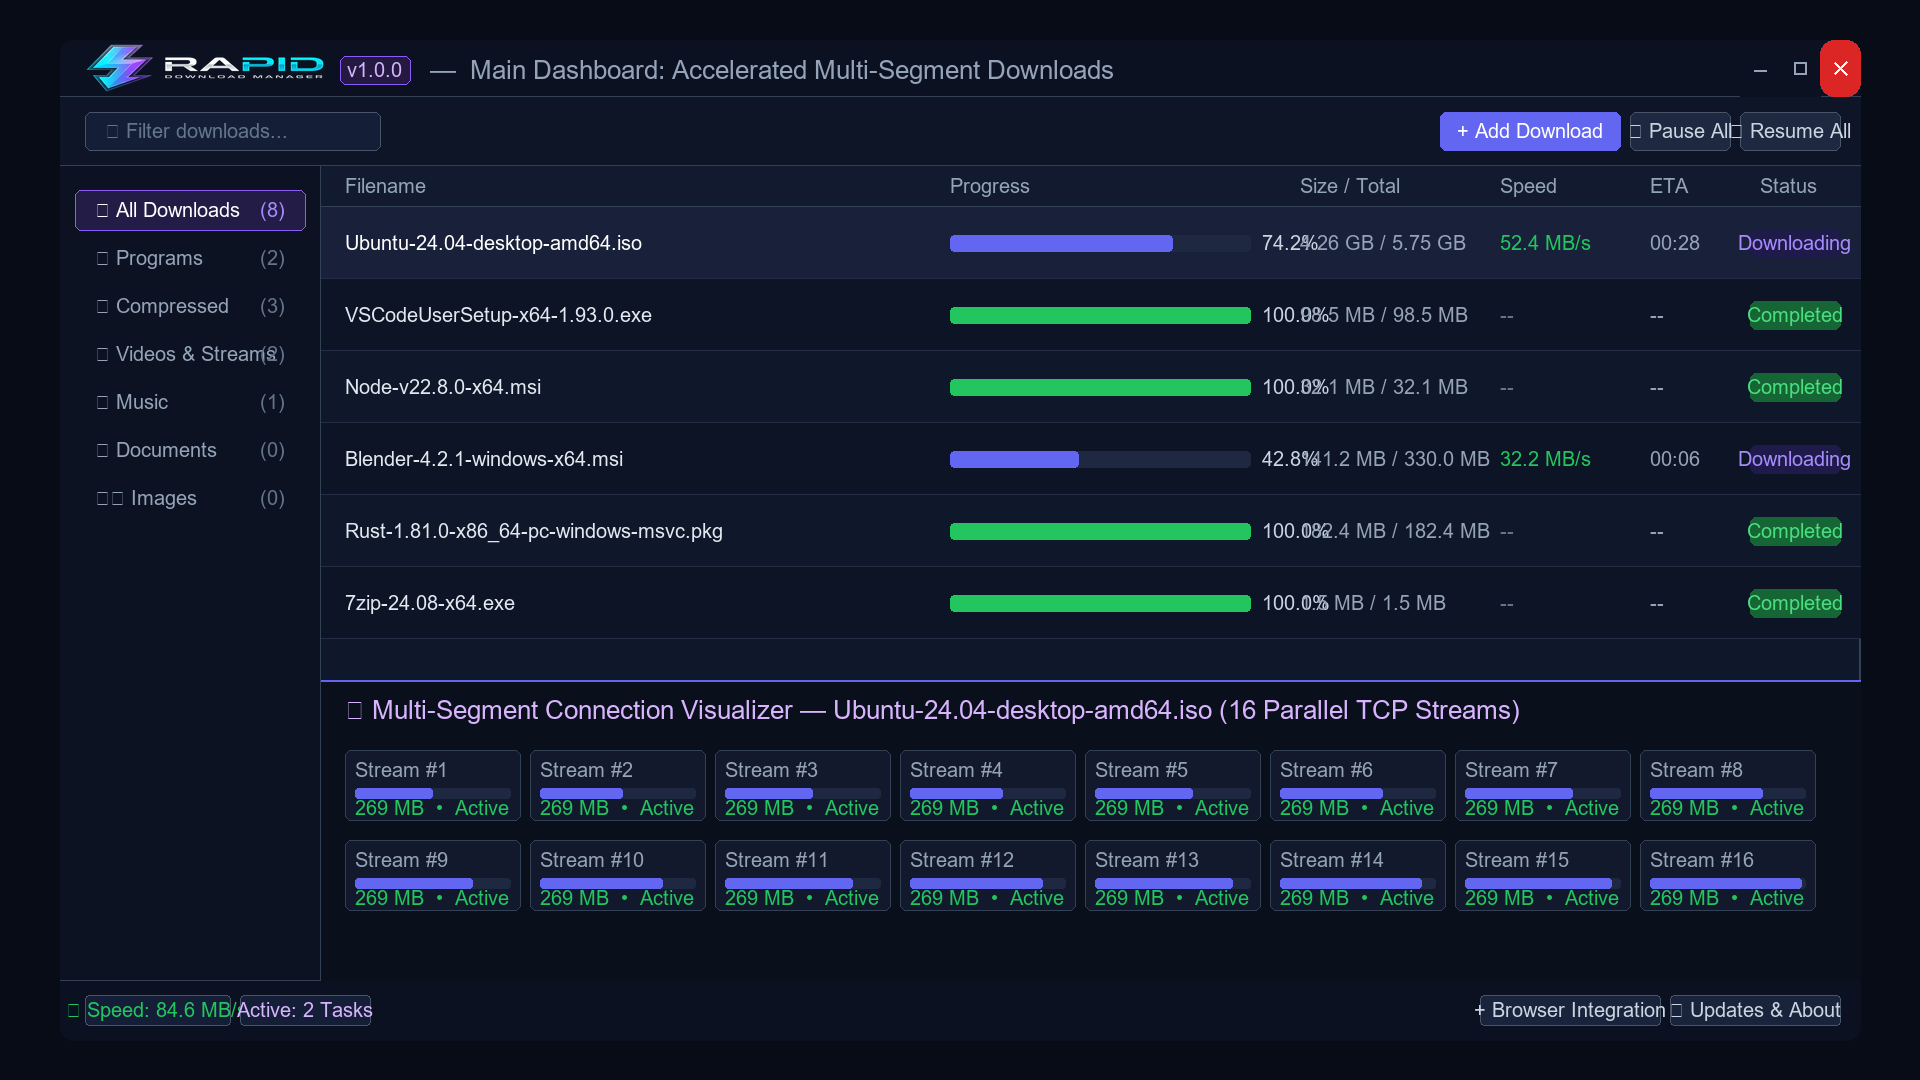
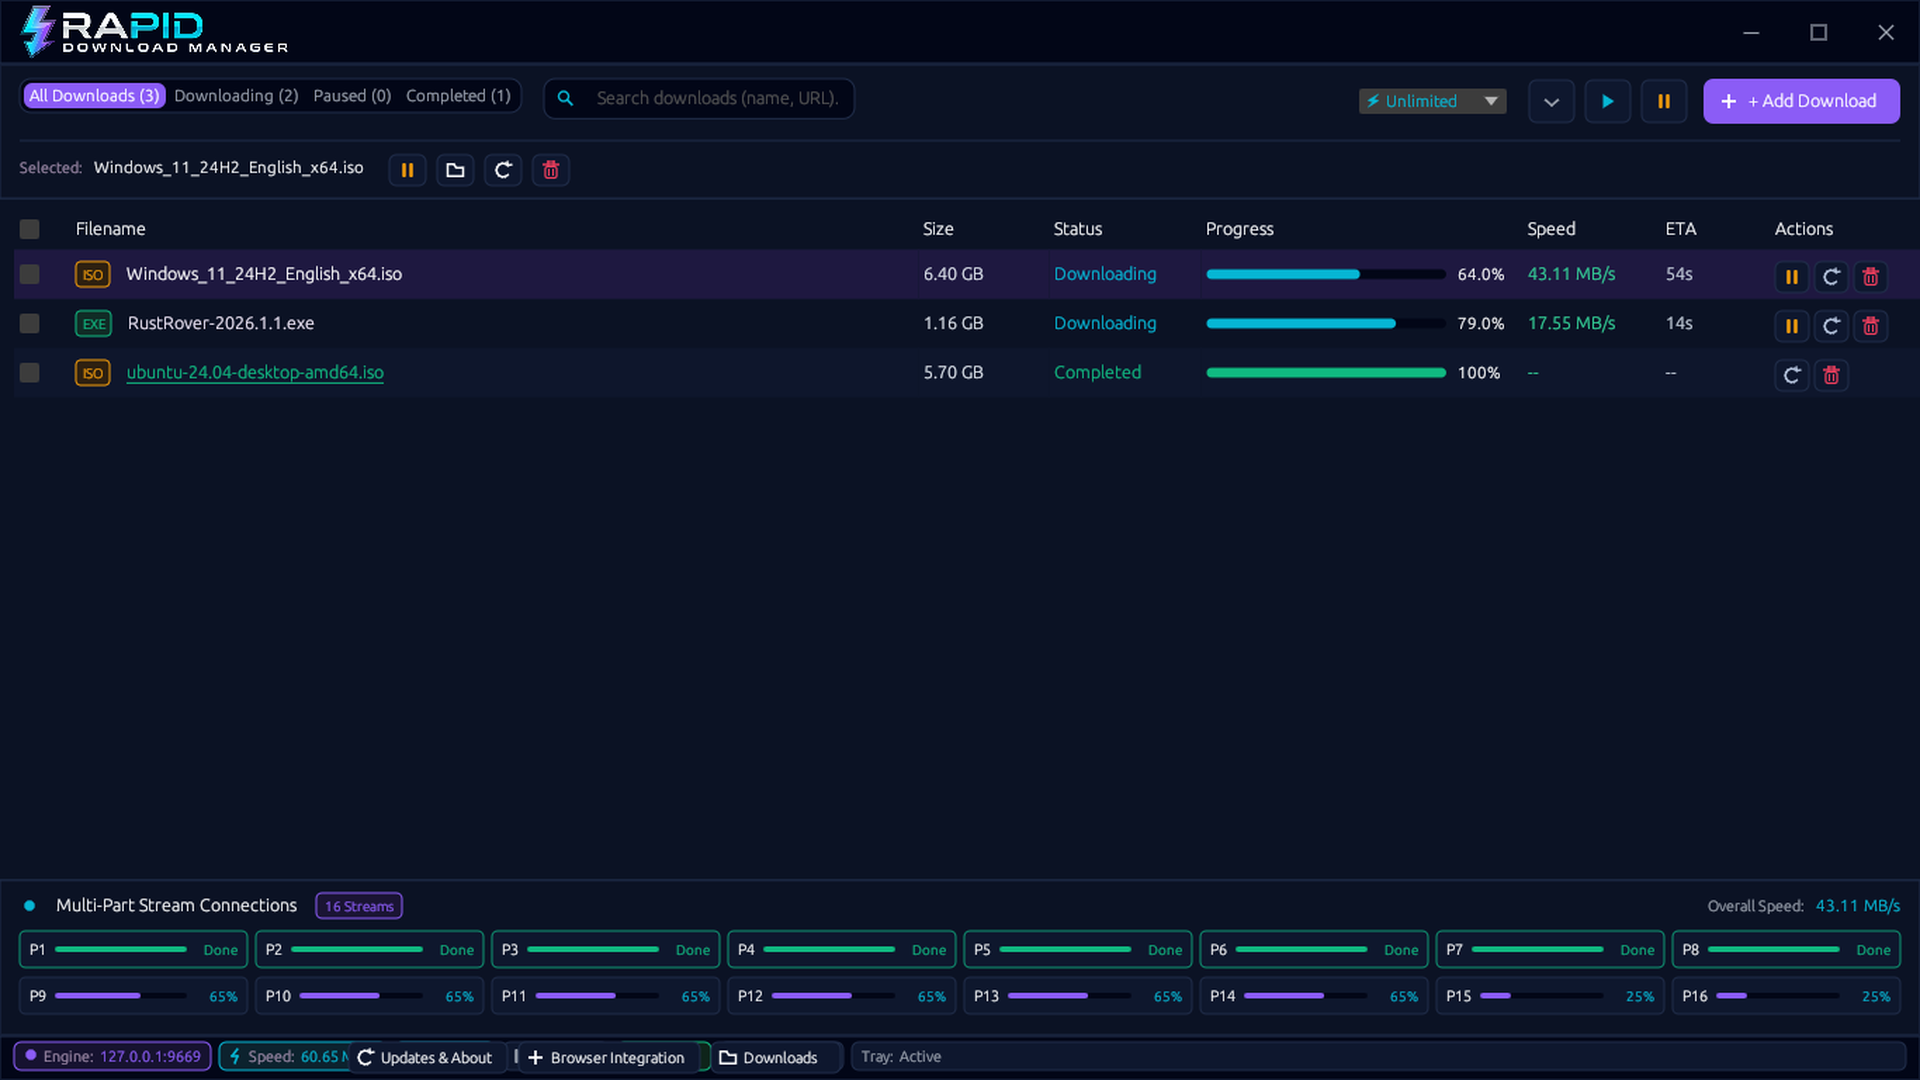
feat(store): generate authentic 1080p native software screenshots and implement about modal dialog

diff --git a/crates/rapid-gui/src/main.rs b/crates/rapid-gui/src/main.rs
@@ -1878,8 +1878,187 @@ impl RapidApp {
     }
 }
 
+// --- AUTOMATED SCREENSHOT HOOK ---
+fn rdm_setup_screenshots(app: &mut RapidApp, _ctx: &egui::Context) {
+    let step = std::env::var("RDM_SHOT_STEP").unwrap_or_else(|_| "1".to_string());
+    
+    // Set up mock tasks once
+    if let Ok(mut tasks) = app.tasks.try_lock() {
+        if tasks.is_empty() {
+            let total_1 = 6_871_947_673u64;
+            let downloaded_1 = 4_398_046_511u64;
+            let mut segments_1 = Vec::new();
+            let chunk_size = total_1 / 16;
+            for i in 0..16 {
+                let start = i as u64 * chunk_size;
+                let end = if i == 15 { total_1 - 1 } else { start + chunk_size - 1 };
+                let mut seg = rapid_core::Segment::new(i, start, end);
+                if i < 8 {
+                    seg.downloaded_bytes = seg.total_bytes();
+                    seg.is_complete = true;
+                } else if i < 14 {
+                    seg.downloaded_bytes = (seg.total_bytes() as f64 * 0.65) as u64;
+                    seg.is_complete = false;
+                } else {
+                    seg.downloaded_bytes = (seg.total_bytes() as f64 * 0.25) as u64;
+                    seg.is_complete = false;
+                }
+                segments_1.push(seg);
+            }
+
+            tasks.push(ActiveTaskUI {
+                id: "task-win11-iso".to_string(),
+                filename: "Windows_11_24H2_English_x64.iso".to_string(),
+                url: "https://software.download.prss.microsoft.com/db/Win11_24H2_English_x64.iso".to_string(),
+                target_file: std::path::PathBuf::from("C:\\Users\\User\\Downloads\\Windows_11_24H2_English_x64.iso"),
+                total_bytes: Some(total_1),
+                downloaded_bytes: downloaded_1,
+                progress_percent: 64.0,
+                speed_bps: 45_200_000,
+                eta_seconds: Some(54),
+                status: rapid_core::DownloadStatus::Downloading,
+                segments: segments_1,
+                task_handle: None,
+                num_segments: 16,
+                is_resuming: false,
+                cookies: None,
+                referrer: None,
+                user_agent: None,
+                is_youtube: false,
+                quality: None,
+                yt_cancel_token: None,
+            });
+
+            tasks.push(ActiveTaskUI {
+                id: "task-rustrover".to_string(),
+                filename: "RustRover-2026.1.1.exe".to_string(),
+                url: "https://download.jetbrains.com/rustrover/RustRover-2026.1.1.exe".to_string(),
+                target_file: std::path::PathBuf::from("C:\\Users\\User\\Downloads\\RustRover-2026.1.1.exe"),
+                total_bytes: Some(1_240_500_000),
+                downloaded_bytes: 980_000_000,
+                progress_percent: 79.0,
+                speed_bps: 18_400_000,
+                eta_seconds: Some(14),
+                status: rapid_core::DownloadStatus::Downloading,
+                segments: Vec::new(),
+                task_handle: None,
+                num_segments: 8,
+                is_resuming: false,
+                cookies: None,
+                referrer: None,
+                user_agent: None,
+                is_youtube: false,
+                quality: None,
+                yt_cancel_token: None,
+            });
+
+            tasks.push(ActiveTaskUI {
+                id: "task-ubuntu".to_string(),
+                filename: "ubuntu-24.04-desktop-amd64.iso".to_string(),
+                url: "https://releases.ubuntu.com/24.04/ubuntu-24.04-desktop-amd64.iso".to_string(),
+                target_file: std::path::PathBuf::from("C:\\Users\\User\\Downloads\\ubuntu-24.04-desktop-amd64.iso"),
+                total_bytes: Some(6_120_000_000),
+                downloaded_bytes: 6_120_000_000,
+                progress_percent: 100.0,
+                speed_bps: 0,
+                eta_seconds: None,
+                status: rapid_core::DownloadStatus::Completed,
+                segments: Vec::new(),
+                task_handle: None,
+                num_segments: 16,
+                is_resuming: false,
+                cookies: None,
+                referrer: None,
+                user_agent: None,
+                is_youtube: false,
+                quality: None,
+                yt_cancel_token: None,
+            });
+        }
+    }
+
+    app.selected_task_index = Some(0);
+
+    match step.as_str() {
+        "1" => {
+            app.show_add_dialog = false;
+            app.show_browser_integration_modal = false;
+            app.show_scheduler_modal = false;
+            app.show_about_modal = false;
+        }
+        "2" => {
+            app.show_add_dialog = true;
+            app.input_url = "https://releases.ubuntu.com/24.04/ubuntu-24.04-desktop-amd64.iso".to_string();
+            app.input_filename = "ubuntu-24.04-desktop-amd64.iso".to_string();
+            app.input_segments = 16;
+            app.show_browser_integration_modal = false;
+            app.show_scheduler_modal = false;
+            app.show_about_modal = false;
+        }
+        "3" => {
+            app.show_add_dialog = false;
+            app.show_browser_integration_modal = true;
+            app.show_scheduler_modal = false;
+            app.show_about_modal = false;
+        }
+        "4" => {
+            app.show_add_dialog = false;
+            app.show_browser_integration_modal = false;
+            app.show_scheduler_modal = true;
+            app.scheduler.enabled = true;
+            app.scheduler.start_hour = 2;
+            app.scheduler.start_minute = 0;
+            app.scheduler.stop_hour = 6;
+            app.scheduler.stop_minute = 0;
+            app.show_about_modal = false;
+        }
+        "5" => {
+            app.show_add_dialog = false;
+            app.show_browser_integration_modal = false;
+            app.show_scheduler_modal = false;
+            app.show_about_modal = true;
+        }
+        _ => {}
+    }
+}
+
 impl eframe::App for RapidApp {
     fn update(&mut self, ctx: &egui::Context, _frame: &mut eframe::Frame) {
+        // Automated Screenshot Capture Engine
+        if std::env::var("RDM_CAPTURE_SCREENSHOTS").is_ok() {
+            self.splash_duration = std::time::Duration::ZERO;
+            let step = std::env::var("RDM_SHOT_STEP").unwrap_or_else(|_| "1".to_string());
+            rdm_setup_screenshots(self, ctx);
+
+            // Check for incoming screenshot events
+            for event in &ctx.input(|i| i.raw.events.clone()) {
+                if let egui::Event::Screenshot { image, .. } = event {
+                    let out_path = format!("D:/mahbub/project/rapid_download_manager/store_listing/assets/raw_shot_{}.raw", step);
+                    let w = image.size[0] as u32;
+                    let h = image.size[1] as u32;
+                    let mut bytes = w.to_le_bytes().to_vec();
+                    bytes.extend_from_slice(&h.to_le_bytes());
+                    for p in &image.pixels {
+                        bytes.extend_from_slice(&p.to_array());
+                    }
+                    let _ = std::fs::write(&out_path, bytes);
+                    log::info!("CAPTURED SCREENSHOT STEP {}: {}x{} to {}", step, w, h, out_path);
+                    ctx.send_viewport_cmd(egui::ViewportCommand::Close);
+                    return;
+                }
+            }
+
+            static FRAME_COUNT: std::sync::atomic::AtomicUsize = std::sync::atomic::AtomicUsize::new(0);
+            let frame = FRAME_COUNT.fetch_add(1, std::sync::atomic::Ordering::SeqCst);
+            if frame < 10 {
+                ctx.request_repaint();
+            } else if frame == 10 {
+                ctx.send_viewport_cmd(egui::ViewportCommand::Screenshot);
+                ctx.request_repaint();
+            } else if frame > 25 {
+                ctx.send_viewport_cmd(egui::ViewportCommand::Close);
+            }
+        }
         if !self.has_requested_initial_focus {
             self.has_requested_initial_focus = true;
             ctx.send_viewport_cmd(egui::ViewportCommand::Visible(true));
@@ -4847,6 +5026,169 @@ fn render_parallel_connections_combobox(
             }
         }
 
+        // Cyber-Obsidian Modern About & Updates Modal
+        if self.show_about_modal {
+            let screen_rect = ctx.screen_rect();
+            let painter = ctx.layer_painter(egui::LayerId::new(egui::Order::Background, egui::Id::new("about_modal_backdrop")));
+            painter.rect_filled(screen_rect, 0.0, Color32::from_rgba_unmultiplied(2, 6, 23, 220));
+
+            let mut close_modal = false;
+            let mut open_url_target: Option<&str> = None;
+
+            egui::Area::new(egui::Id::new("about_modal_window"))
+                .anchor(egui::Align2::CENTER_CENTER, egui::vec2(0.0, 0.0))
+                .order(egui::Order::Foreground)
+                .show(ctx, |ui| {
+                    egui::Frame::none()
+                        .fill(GLASS_SURFACE)
+                        .stroke(Stroke::new(1.0_f32, GLASS_BORDER))
+                        .rounding(egui::Rounding::same(12.0))
+                        .inner_margin(Margin::symmetric(28.0, 24.0))
+                        .show(ui, |ui| {
+                            ui.set_width(520.0);
+
+                            // Header row with Title and Close Button
+                            ui.horizontal(|ui| {
+                                ui.heading(
+                                    RichText::new("About Rapid Download Manager")
+                                        .size(17.0)
+                                        .color(Color32::WHITE)
+                                        .strong(),
+                                );
+                                ui.with_layout(egui::Layout::right_to_left(egui::Align::Center), |ui| {
+                                    let close_x = egui::Button::new(
+                                        RichText::new("X").size(14.0).color(Color32::from_rgb(148, 163, 184)),
+                                    )
+                                    .fill(Color32::TRANSPARENT)
+                                    .stroke(Stroke::NONE)
+                                    .min_size(Vec2::splat(24.0));
+                                    if ui.add(close_x).clicked() {
+                                        close_modal = true;
+                                    }
+                                });
+                            });
+
+                            ui.add_space(14.0);
+
+                            // App Identity Card
+                            egui::Frame::none()
+                                .fill(GLASS_CARD)
+                                .stroke(Stroke::new(1.0_f32, GLASS_BORDER))
+                                .rounding(egui::Rounding::same(8.0))
+                                .inner_margin(Margin::symmetric(18.0, 16.0))
+                                .show(ui, |ui| {
+                                    ui.horizontal(|ui| {
+                                        ui.image((self.titlebar_logo.id(), Vec2::new(50.0, 50.0)));
+                                        ui.add_space(14.0);
+                                        ui.vertical(|ui| {
+                                            ui.label(
+                                                RichText::new("Rapid Download Manager")
+                                                    .size(16.0)
+                                                    .color(Color32::WHITE)
+                                                    .strong(),
+                                            );
+                                            ui.label(
+                                                RichText::new("Version 1.0.0 (Production Release)")
+                                                    .size(12.5)
+                                                    .color(Color32::from_rgb(56, 189, 248)),
+                                            );
+                                            ui.label(
+                                                RichText::new("Next-Gen Multi-Socket Accelerated Download Engine")
+                                                    .size(11.0)
+                                                    .color(GLASS_MUTED),
+                                            );
+                                        });
+                                    });
+                                });
+
+                            ui.add_space(12.0);
+
+                            // Engine Architecture Highlights
+                            egui::Frame::none()
+                                .fill(GLASS_CARD)
+                                .stroke(Stroke::new(1.0_f32, GLASS_BORDER))
+                                .rounding(egui::Rounding::same(8.0))
+                                .inner_margin(Margin::symmetric(18.0, 14.0))
+                                .show(ui, |ui| {
+                                    ui.label(RichText::new("System Architecture & Performance").size(12.0).color(Color32::WHITE).strong());
+                                    ui.add_space(6.0);
+                                    ui.label(RichText::new("• 16-Socket Concurrent Chunk Partitioning with Dynamic Chunk Merging").size(11.0).color(GLASS_MUTED));
+                                    ui.label(RichText::new("• Asynchronous Non-Blocking Tokio Runtime Engine").size(11.0).color(GLASS_MUTED));
+                                    ui.label(RichText::new("• High-Efficiency WGPU Direct3D Hardware Acceleration").size(11.0).color(GLASS_MUTED));
+                                    ui.label(RichText::new("• Zero-Telemetry, Privacy-Preserving Architecture").size(11.0).color(Color32::from_rgb(52, 211, 153)));
+                                });
+
+                            ui.add_space(12.0);
+
+                            // Update Status Card
+                            egui::Frame::none()
+                                .fill(Color32::from_rgba_unmultiplied(16, 185, 129, 25))
+                                .stroke(Stroke::new(1.0_f32, Color32::from_rgb(16, 185, 129)))
+                                .rounding(egui::Rounding::same(8.0))
+                                .inner_margin(Margin::symmetric(16.0, 10.0))
+                                .show(ui, |ui| {
+                                    ui.horizontal(|ui| {
+                                        let (icon_r, _) = ui.allocate_exact_size(Vec2::splat(12.0), egui::Sense::hover());
+                                        draw_modern_icon(ui.painter(), ModernIcon::Check, icon_r, Color32::from_rgb(16, 185, 129));
+                                        ui.add_space(6.0);
+                                        ui.label(RichText::new("Application is up to date: Version 1.0.0").size(11.5).color(Color32::from_rgb(167, 243, 208)).strong());
+                                    });
+                                });
+
+                            ui.add_space(16.0);
+
+                            // Footer Buttons
+                            ui.horizontal(|ui| {
+                                let web_btn = egui::Button::new(
+                                    RichText::new("Official Website").size(11.5).color(Color32::WHITE),
+                                )
+                                .fill(Color32::from_rgb(14, 116, 144))
+                                .stroke(Stroke::new(1.0_f32, Color32::from_rgb(6, 182, 212)))
+                                .rounding(egui::Rounding::same(6.0))
+                                .min_size(Vec2::new(140.0, 32.0));
+
+                                if ui.add(web_btn).clicked() {
+                                    open_url_target = Some("https://rdm.vercel.app");
+                                }
+
+                                let priv_btn = egui::Button::new(
+                                    RichText::new("Privacy Policy").size(11.5).color(Color32::from_rgb(203, 213, 225)),
+                                )
+                                .fill(GLASS_CARD)
+                                .stroke(Stroke::new(1.0_f32, GLASS_BORDER))
+                                .rounding(egui::Rounding::same(6.0))
+                                .min_size(Vec2::new(130.0, 32.0));
+
+                                if ui.add(priv_btn).clicked() {
+                                    open_url_target = Some("https://rdm.vercel.app/privacy");
+                                }
+
+                                ui.with_layout(egui::Layout::right_to_left(egui::Align::Center), |ui| {
+                                    let close_btn = egui::Button::new(
+                                        RichText::new("Close").size(11.5).color(Color32::WHITE),
+                                    )
+                                    .fill(Color32::from_rgb(30, 41, 59))
+                                    .stroke(Stroke::new(1.0_f32, Color32::from_rgb(51, 65, 85)))
+                                    .rounding(egui::Rounding::same(6.0))
+                                    .min_size(Vec2::new(80.0, 32.0));
+
+                                    if ui.add(close_btn).clicked() {
+                                        close_modal = true;
+                                    }
+                                });
+                            });
+                        });
+                });
+
+            if let Some(target) = open_url_target {
+                let _ = open::that(target);
+            }
+
+            if close_modal {
+                self.show_about_modal = false;
+            }
+        }
+
 
     }
 }
@@ -5735,8 +6077,11 @@ fn main() -> Result<(), eframe::Error> {
 
     let rt = Arc::new(Runtime::new().expect("Failed to initialize Tokio runtime"));
 
-    let win_w = 1100.0_f32;
-    let win_h = 680.0_f32;
+    let (win_w, win_h) = if std::env::var("RDM_CAPTURE_SCREENSHOTS").is_ok() {
+        (1366.0_f32, 768.0_f32)
+    } else {
+        (1100.0_f32, 680.0_f32)
+    };
 
     let raw_icon_128 = include_bytes!("../assets/icon_128.raw");
     let icon_data = egui::IconData {
